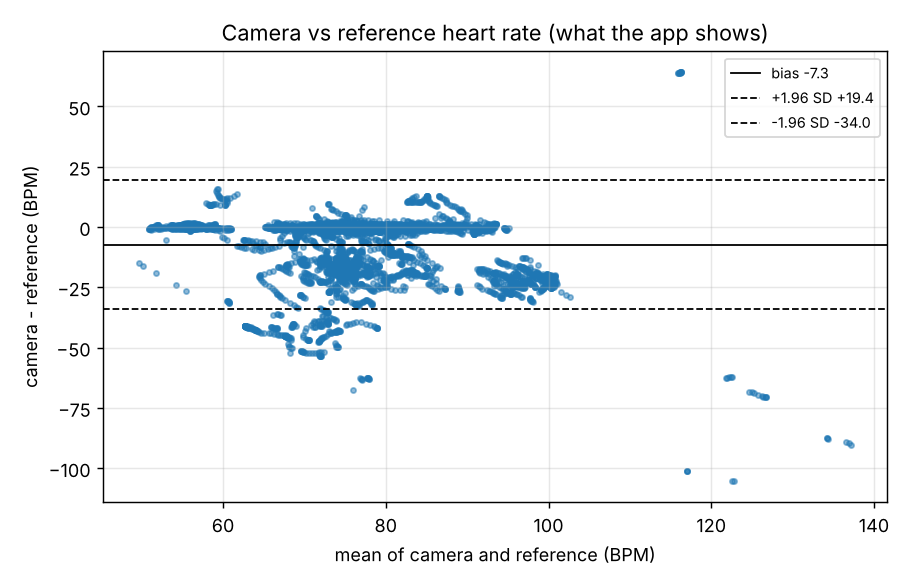
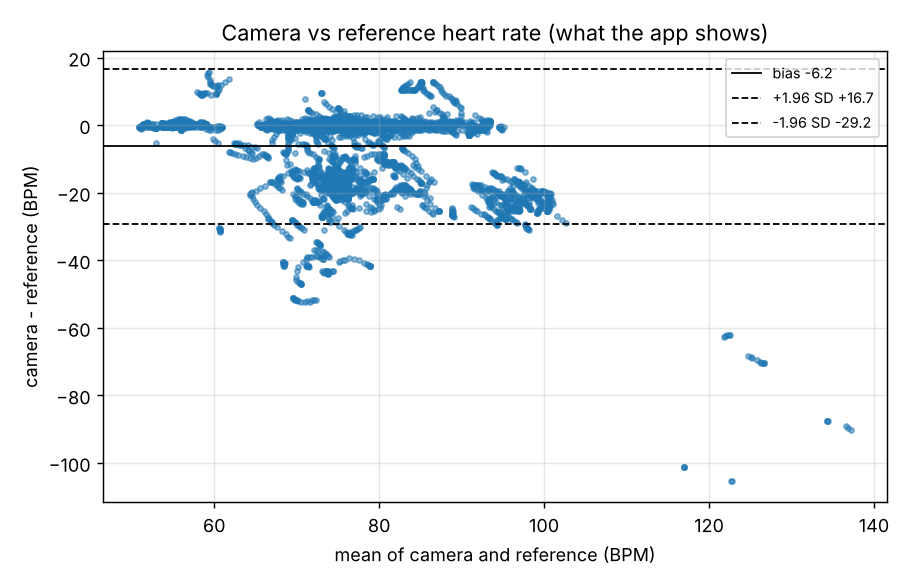
Fix the display tracker ignoring motion and method disagreement; demo GIF, UI and lint
- HeartRateTracker.update never read its usable flag (dropped in a
  refactor), so 'pause while the head moves' and 'ignore an estimate
  unless 2 of 3 methods agree' did nothing. Restored, with a regression
  test. Held-out test set, what the app shows: MAE 8.4 -> 7.1 BPM,
  Pearson r 0.48 -> 0.60, within 5 BPM 65% -> 67%
- web: timestamp frames with the camera's capture time (not when they
  were processed), outline the measured face area, SNR panel matches
  the whole-face method, trend chart moved into the side column
- README: demo GIF, 'at a glance' table, light vs accuracy table and
  why there is no brightness cut-off (skin tone), updated results
- ruff config and CI lint step; fix unused variables and a lambda
  closing over a loop variable

diff --git a/web/app.js b/web/app.js
@@ -247,7 +247,11 @@ function scheduleFrame() {
 
 function onFrame(_ts, video) {
   if (!state.running) return;
-  const now = (performance.now() - state.t0) / 1000;
+  // When the camera captured this frame, not when we got round to it: processing delays would
+  // otherwise jitter every sample's time. (Falls back to presentation time, then to now.)
+  const stamp = video?.captureTime ?? video?.presentationTime ?? performance.now();
+  const now = (stamp - state.t0) / 1000;
+  if (state.lastFrame !== null && now <= state.lastFrame) { scheduleFrame(); return; }   // same frame again
   // The camera's own frame rate (frames it delivered, processed or not): this is what drops in
   // low light. Without requestVideoFrameCallback, fall back to the processing rate.
   const presented = video?.presentedFrames;
@@ -374,6 +378,17 @@ function drawView(ff) {
   ctx.fillStyle = "rgba(230,230,230,0.9)";
   ctx.font = "12px system-ui, sans-serif";
   ctx.lineWidth = 1;
+  // The area the heart rate is measured on: the whole face (eyes, brows and lips are left out).
+  const lm = state.extractor.smooth;
+  if (lm) {
+    ctx.save();
+    ctx.setLineDash([4, 4]);
+    ctx.beginPath();
+    state.cfg.FACE_OVAL.forEach((i, n) => (n ? ctx.lineTo : ctx.moveTo).call(ctx, lm[i][0] * k, lm[i][1] * k));
+    ctx.closePath();
+    ctx.stroke();
+    ctx.restore();
+  }
   for (const [x0, y0, x1, y1] of ff.overlay.bg_boxes) {
     ctx.strokeRect(x0 * k + 0.5, y0 * k + 0.5, (x1 - x0) * k, (y1 - y0) * k);
     ctx.fillText("bg ref", x0 * k + 5, y0 * k + 15);
@@ -392,8 +407,8 @@ function renderDashboard(info) {
   $("lighting").textContent = info.lighting[1];
   $("lighting").dataset.level = info.lighting[0];
   $("status").textContent = info.status;
-  $("features").textContent = `bg ${info.use_background ? "ON" : "OFF"} · motion ` +
-    (info.motion_patches === null ? "-" : `${info.motion_patches}/${state.cfg.PATCHES.length}`);
+  $("features").textContent = `bg ${info.use_background ? "ON" : "OFF"}` +
+    (info.source ? ` · pulse: ${info.source === "face" ? "whole face" : "patches"}` : "");
   renderRegions(info.regions);
   drawSpectrum(info);
   drawLine($("pulse"), info.pulse);
@@ -402,7 +417,7 @@ function renderDashboard(info) {
 
 function renderRegions(regions) {
   const el = $("regions");
-  el.replaceChildren(...Object.entries(regions).map(([name, [snr, share]]) => {
+  el.replaceChildren(...Object.entries(regions).map(([name, [snr]]) => {
     const row = document.createElement("div");
     row.className = "region";
     const label = document.createElement("span");
@@ -418,7 +433,7 @@ function renderRegions(regions) {
     } else {
       fill.style.width = `${Math.max(0, Math.min(1, (snr + 6) / 15)) * 100}%`;
       fill.style.background = cssVar(`--${snrLevel(snr)}`);
-      num.textContent = `${snr >= 0 ? "+" : ""}${snr.toFixed(1)}  ${Math.round(share * 100)}%`;
+      num.textContent = `${snr >= 0 ? "+" : ""}${snr.toFixed(1)} dB`;
     }
     bar.append(fill);
     row.append(label, bar, num);

diff --git a/web/index.html b/web/index.html
@@ -112,7 +112,7 @@
       </section>
 
       <section class="panel">
-        <div class="label row">REGIONS <span class="muted">SNR | weight</span><span id="features" class="muted right"></span></div>
+        <div class="label row">SNR MAP<span id="features" class="muted right"></span></div>
         <div id="regions"></div>
       </section>
 
@@ -120,15 +120,16 @@
         <div class="label">PULSE SPECTRUM</div>
         <canvas id="spectrum" class="chart"></canvas>
       </section>
+
+      <section class="panel">
+        <div class="label">HEART RATE TREND (60 s)</div>
+        <canvas id="trend" class="chart"></canvas>
+      </section>
     </aside>
 
     <section class="panel wide">
       <div class="label">PULSE WAVEFORM</div>
       <canvas id="pulse" class="chart"></canvas>
-    </section>
-    <section class="panel wide">
-      <div class="label">HEART RATE TREND (60 s)</div>
-      <canvas id="trend" class="chart"></canvas>
     </section>
 
     <nav class="controls" aria-label="Controls">

diff --git a/web/style.css b/web/style.css
@@ -110,11 +110,11 @@ button:disabled { opacity: 0.6; cursor: default; }
 }
 .perf:empty { display: none; }
 
-.side { display: flex; flex-direction: column; gap: 12px; }
+.side { display: flex; flex-direction: column; gap: 12px; grid-row: span 2; }
 .panel { background: var(--panel); border-radius: 12px; padding: 12px 14px; }
 .wide { grid-column: span 1; }
 .label { font-size: 12px; letter-spacing: 0.06em; color: var(--muted); margin-bottom: 6px; }
-.label.row { display: flex; gap: 8px; align-items: baseline; }
+.label.row { display: flex; gap: 8px; align-items: baseline; white-space: nowrap; }
 
 .hr .value { display: flex; align-items: baseline; gap: 8px; color: var(--lvl, var(--none)); }
 #bpm { font-size: 72px; font-weight: 700; line-height: 1; font-variant-numeric: tabular-nums; }

diff --git a/live_session.py b/live_session.py
@@ -181,14 +181,14 @@ class LiveSession:
             "trend": [[float(t), _num(b)] for t, b in self.trend],
             "regions": {k: [_num(s), float(w)] for k, (s, w) in region_summary(a).items()},
             "snr_db": None, "method_used": None, "agreement": None, "peak_bpm": None,
-            "motion_patches": None, "patch_snr": {}, "spectrum": None, "pulse": None,
+            "motion_patches": None, "patch_snr": {}, "spectrum": None, "pulse": None, "source": None,
         }
         if a is not None:
             band = (a["freqs"] >= HR_LOW - 0.2) & (a["freqs"] <= HR_HIGH + 0.2)
             out.update({
                 "snr_db": _num(a["snr_db"]), "method_used": a["method_used"],
                 "agreement": int(a["agreement"]), "peak_bpm": _num(a["bpm"]),
-                "motion_patches": int(a["motion_patches"]),
+                "motion_patches": int(a["motion_patches"]), "source": a["source"],
                 "patch_snr": {k: _num(v) for k, v in a["patch_snr"].items()},
                 # Every 4th bin is plenty for a chart and keeps the message small.
                 "spectrum": [(a["freqs"][band][::4] * 60).tolist(), a["power"][band][::4].tolist()],

diff --git a/vitals_app.py b/vitals_app.py
@@ -27,7 +27,6 @@ device. All processing happens locally; no video is saved or uploaded.
 
 import argparse
 import csv
-import math
 import os
 import time
 from collections import deque
@@ -39,9 +38,9 @@ import numpy as np
 from dashboard import compose, liveness_screen
 from perf import BackgroundAnalyzer, StageTimer
 from face_regions import PATCHES, TRACES, assess_lighting, draw_overlay
-from frame_features import MOTION_LIMIT, SMALL_MOTION, FeatureExtractor
+from frame_features import FeatureExtractor
 from liveness import CHALLENGE_SEC, LivenessSession
-from vitals_dsp import GREEN_MARGIN_DB, analyze_heart_rate
+from vitals_dsp import GREEN_MARGIN_DB
 from vitals_stream import POSE_FIELDS, HeartRateTracker, SampleBuffer
 # Settings shared with the browser version (web/) live in live_session.py.
 from live_session import (FACE_GAP_SEC, METHODS, MIN_SEC, MOTION_HOLD, SNR_GOOD_DB, TALKING_STD,
@@ -157,7 +156,6 @@ def main():
         analysis, reading = None, tracker.reading(0.0)
 
     while True:
-        frame_start = time.perf_counter()
         with timer.stage("camera"):
             ok, frame = cap.read()
         if not ok:

diff --git a/tests/test_stream.py b/tests/test_stream.py
@@ -172,3 +172,16 @@ def test_buffer_stores_pose():
     buf.add(0.1, *frame())
     p = buf.pose_array()
     assert p.shape == (2, 4) and np.isnan(p[1]).all()
+
+
+def test_unusable_and_disagreeing_windows_are_ignored():
+    """Motion (usable=False) and a lone method (agreement 1/3) must not start or feed a reading."""
+    for kwargs in (dict(usable=False), dict(agreement=1)):
+        tr = HeartRateTracker()
+        for k in range(20):
+            reading = tr.update(10.0 + 0.5 * k, 72.0, 8.0, window_sec=15.0, **kwargs)
+        assert reading.bpm is None, kwargs
+    tr = HeartRateTracker()
+    for k in range(20):
+        reading = tr.update(10.0 + 0.5 * k, 72.0, 8.0, window_sec=15.0, agreement=2)
+    assert reading.bpm == 72.0

diff --git a/liveness_benchmark.py b/liveness_benchmark.py
@@ -134,7 +134,8 @@ def main(trials=60, seed=11):
     print(f"{'scenario':<18}{'LIVE':>7}{'NOT LIVE':>10}{'NOT CONF.':>11}   {'pulse pass':>10}{'flash pass':>11}   should be")
     for sc in SCENARIOS:
         r = [x for x in res if x[0] == sc]
-        share = lambda v: np.mean([x[2] == v for x in r])
+        def share(v, r=r):
+            return np.mean([x[2] == v for x in r])
         expect = {"live, close": "LIVE", "live, far/bright": "LIVE or NOT CONFIRMED",
                   "printed photo": "never LIVE", "mask": "never LIVE", "phone replay": "NOT LIVE",
                   "virtual camera": "NOT LIVE", "live deepfake": "LIVE (blind spot)"}[sc]

diff --git a/tests/test_liveness.py b/tests/test_liveness.py
@@ -12,7 +12,7 @@ def test_challenge_is_random_and_well_formed():
     a = make_challenge(np.random.default_rng(1))
     b = make_challenge(np.random.default_rng(2))
     assert [s[2] for s in a] != [s[2] for s in b]                       # unpredictable
-    for (s0, e0, c0), (s1, e1, c1) in zip(a, a[1:]):
+    for (_, e0, c0), (s1, _, c1) in zip(a, a[1:]):
         assert c0 != c1 and abs(e0 - s1) < 1e-9                         # every boundary is a real change
     assert all(SEGMENT_SEC[0] - 1e-9 <= e - s <= SEGMENT_SEC[1] + 1e-9 for s, e, _ in a[:-1])
     assert a[-1][1] == CHALLENGE_SEC

diff --git a/vitals_stream.py b/vitals_stream.py
@@ -278,7 +278,7 @@ class HeartRateTracker:
         if agreement is not None and agreement < self.MIN_AGREEMENT:
             usable = False                      # one method alone: not trusted
         has_track = self.track is not None and now - self.last_accept <= self.HOLD_SEC
-        if snr_db is not None:
+        if bpm is not None and snr_db is not None and usable:
             snr_db = snr_db - self.extra_db(window_sec)   # short window: same rules, higher bar
             if has_track:
                 near = abs(bpm - self.track) <= self.GATE_BPM

diff --git a/session_benchmark.py b/session_benchmark.py
@@ -299,7 +299,7 @@ def calibrate(windows=600, seed=3):
     trk = HeartRateTracker()
     enter = keep = 0
     snrs = []
-    for k in range(windows):
+    for _ in range(windows):
         sess = make_session("medium", 1.1, rng, seconds=WINDOW_SEC + 0.5, pulse=False, events=False)
         t, patches, bg = sess["t"], sess["patches"], sess["background"]
         track = rng.uniform(55, 100)

diff --git a/liveness.py b/liveness.py
@@ -378,7 +378,6 @@ class LivenessSession:
 
     def progress_text(self, now):
         if self.phase == "pulse":
-            look = self.progress.next_look() or 30.0
             return (f"Step 1/2: hold still, finding your pulse... {now - self.started:4.1f} s "
                     f"(up to {ProgressivePulse.LOOKS[-1]:.0f} s)")
         if self.phase == "flash":

diff --git a/tests/test_frame_features.py b/tests/test_frame_features.py
@@ -19,7 +19,6 @@ def _face(shift=0.0, mouth=0.01):
 
 
 def test_head_pose_fields():
-    frame = np.full((360, 640, 3), 150, np.uint8)
     lm = np.array([[p.x * 640, p.y * 360] for p in _face(mouth=0.05).landmark])
     pose = head_pose(lm, 640, 360)
     assert len(pose) == len(POSE_FIELDS)
